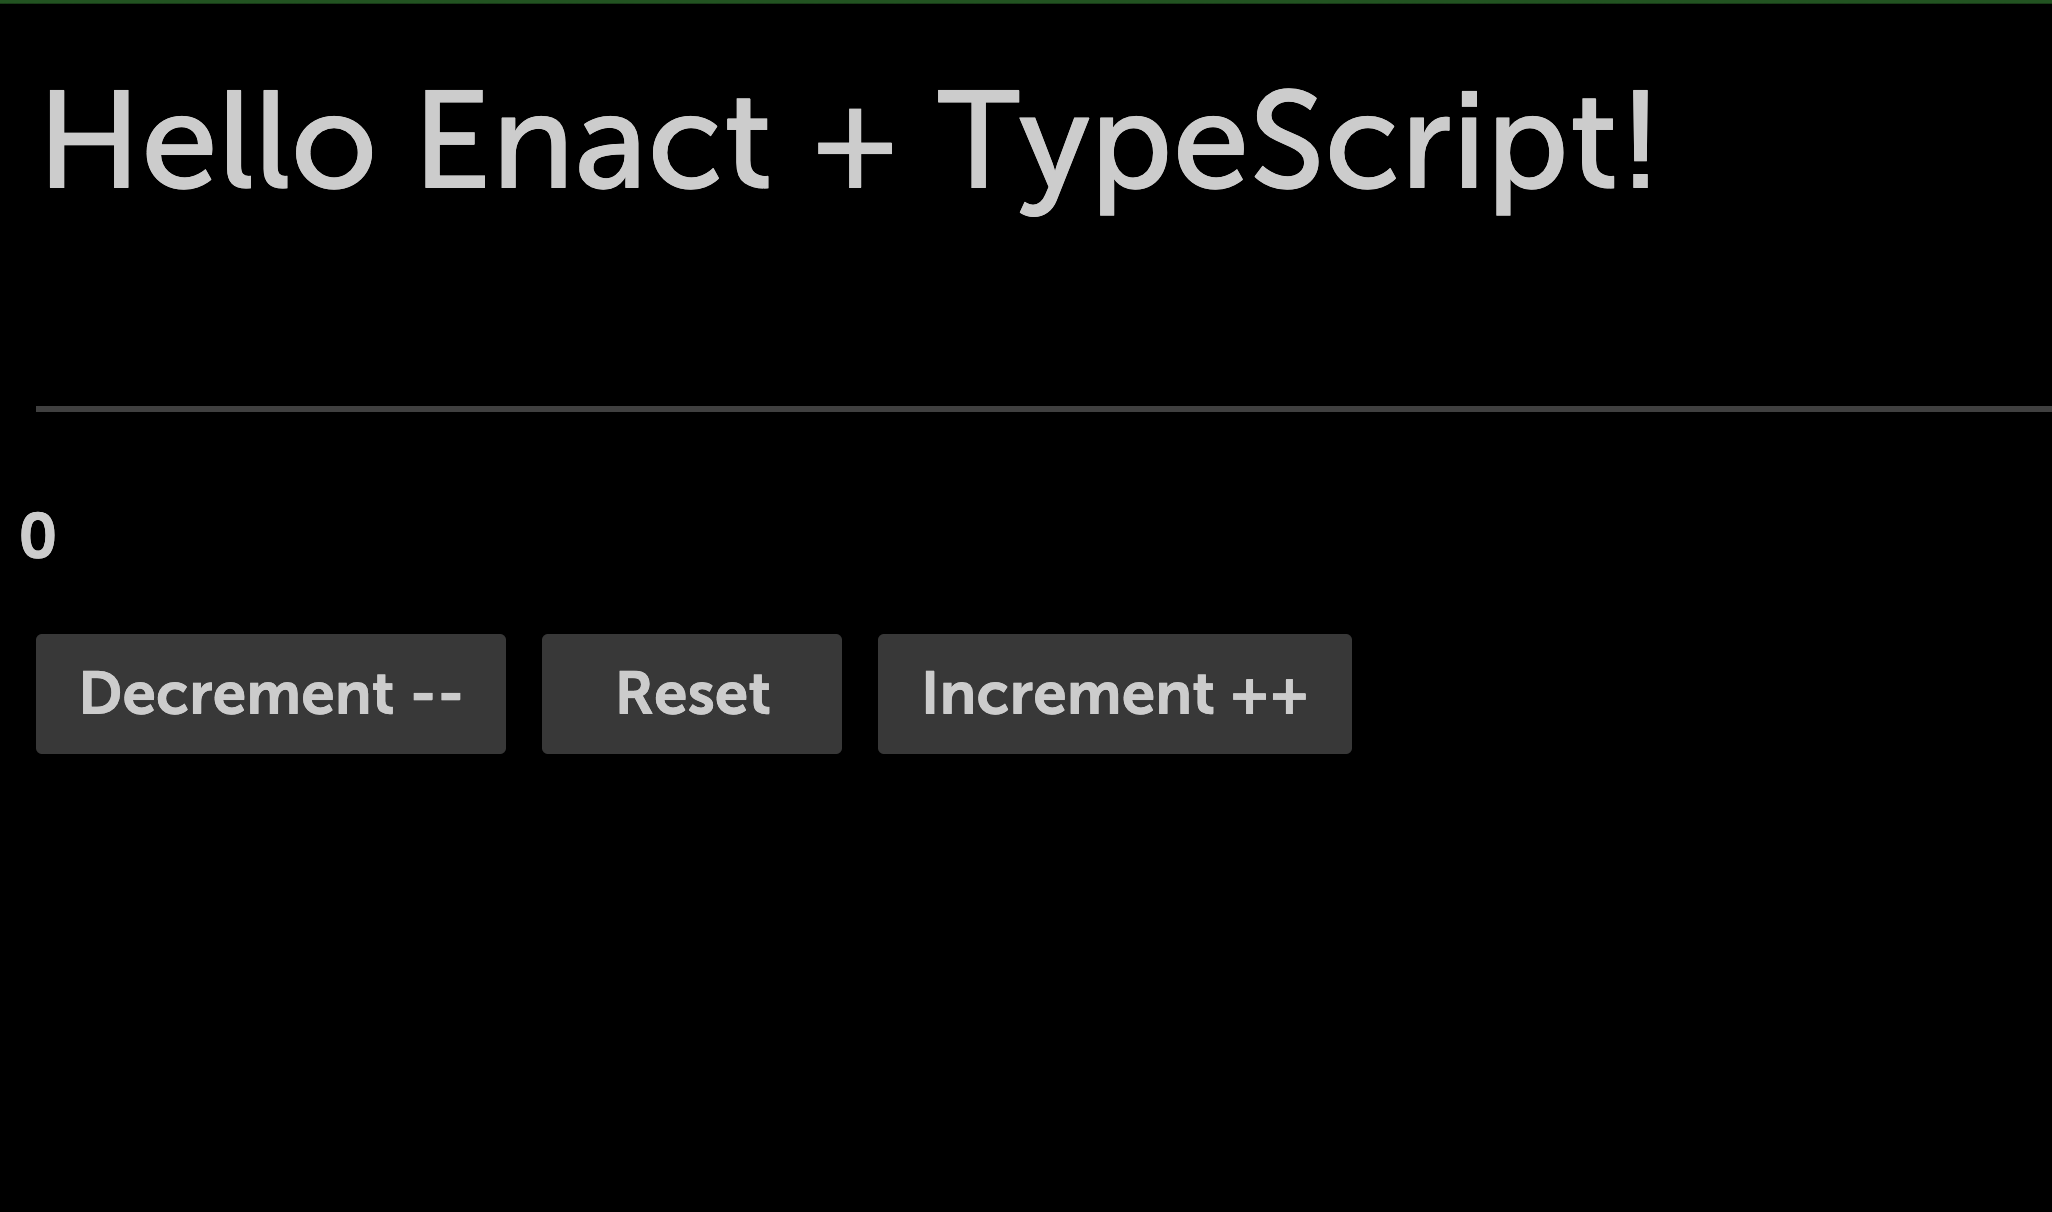
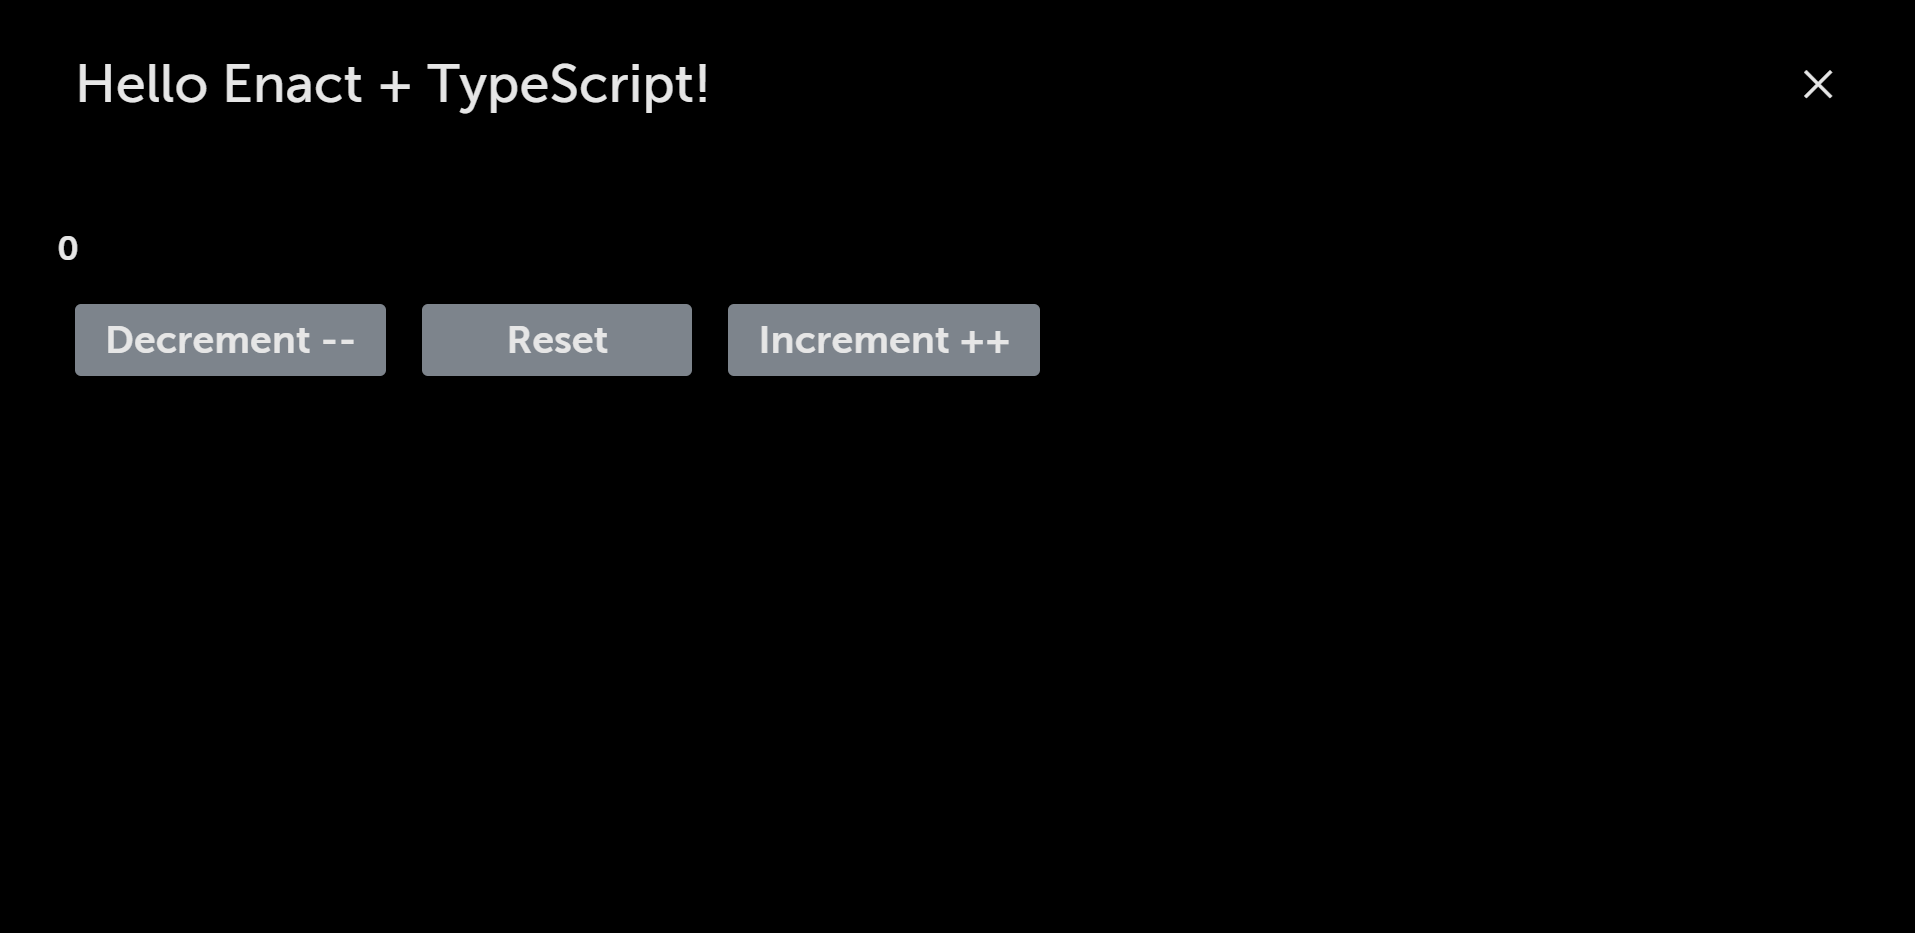
WRO-640: TypeScript: Update tutorial typescript docs (#179)
* Create update-copyright-years.yml

* Update update-copyright-years.yml

* Updated tutorial typescript docs to use sandstone

* Delete update-copyright-years.yml

* Updated images; small fix

* minor fix

* Review fixes

* Minor fix

diff --git a/src/pages/docs/tutorials/tutorial-typescript/adding-a-new-component/index.md b/src/pages/docs/tutorials/tutorial-typescript/adding-a-new-component/index.md
@@ -6,7 +6,7 @@ order: 3
 
 Enact has a number of ready-to-use components. Each component includes TypeScript typing, allowing them to be easily integrated into a project.
 
-Let's start by using components from the Moonstone theme in a stateful React component.
+Let's start by using components from the Sandstone theme in a stateful React component.
 
 ### Creating a Counter Component
 
@@ -21,48 +21,32 @@ Let's start by using components from the Moonstone theme in a stateful React com
 We can now populate the **Counter.tsx** file with a simple counter and add the following contents:
 
 ```ts
-import React from "react";
-import Button from "@enact/moonstone/Button";
+import {useState} from "react";
+import Button from "@enact/sandstone/Button";
 
-interface Props {}
+const Counter:React.FC = () => {
+	const [count, setCount] = useState<number>(0);
 
-interface State {
-  count: number;
-}
+	function increment() {
+		setCount(count + 1);
+	}
 
-class Counter extends React.Component<Props, State> {
-  state = {
-    count: 0
-  };
+	function decrement() {
+		setCount(count - 1);
+	}
 
-  increment = () => {
-    this.setState({
-      count: this.state.count + 1
-    });
-  };
+	function reset() {
+		setCount(0);
+	}
 
-  decrement = () => {
-    this.setState({
-      count: this.state.count - 1
-    });
-  };
-
-  reset = () => {
-    this.setState({
-      count: 0
-    });
-  };
-
-  render() {
-    return (
-      <div>
-        <h1>{this.state.count}</h1>
-        <Button onClick={this.decrement}>Decrement --</Button>
-        <Button onClick={this.reset}>Reset</Button>
-        <Button onClick={this.increment}>Increment ++</Button>
-      </div>
-    );
-  }
+	return (
+		<div>
+			<h1>{count}</h1>
+			<Button onClick={decrement}>Decrement --</Button>
+			<Button onClick={reset}>Reset</Button>
+			<Button onClick={increment}>Increment ++</Button>
+		</div>
+	);
 }
 
 export default Counter;

diff --git a/src/pages/docs/tutorials/tutorial-typescript/typescript-overview/index.md b/src/pages/docs/tutorials/tutorial-typescript/typescript-overview/index.md
@@ -14,15 +14,13 @@ This tutorial assumes you already know about TypeScript, its syntax, and its use
 
 Enact modules include TypeScript definition files, so there is no need to include third-party definition files.  The TypeScript template you installed in the first step of this tutorial configures your environment for building, linting and running TypeScript applications. Additionally, if you use an editor that supports TypeScript definitions, you should be able to see the types for Enact components and methods while writing your app.
 
-The Enact CLI supports TypeScript projects when it detects the presence of **tsconfig.json** and the **typescript** executable either locally or globally installed. The CLI builds using WebPack and linting is done by TSLint (if a **tsconfig.json** is detected).
+The Enact CLI supports TypeScript projects when it detects the presence of **tsconfig.json** and the **typescript** executable either locally or globally installed. The CLI builds using WebPack and linting is done by ESLint (if a **tsconfig.json** is detected).
 
 By default, the TypeScript template is set for strict TypeScript error checking. When migrating existing code, this can make the experience more difficult than it needs to be. It is possible to disable strict type checking (or, completely change the TypeScript compiler settings) by modifying the **tsconfig.json** file in the root of your project.
 
 ```json
     "strict": false,
 ```
-
-TSLint settings can be adjusted by editing the `tslint.json` file.
 
 If you need finer-grained control over your build or linting settings, you can 'eject' the application and modify the build settings directly (though you will lose some of the benefits of the Enact CLI). See [Ejecting Apps](/docs/developer-tools/cli/ejecting-apps/) for more information.
 

diff --git a/src/pages/docs/tutorials/tutorial-typescript/component-with-ts-enact/index.md b/src/pages/docs/tutorials/tutorial-typescript/component-with-ts-enact/index.md
@@ -13,9 +13,8 @@ We can use the same **Counter.tsx** file. Replace the previous contents with the
 ```ts
 // Counter.tsx
 
-import Button from '@enact/moonstone/Button';
 import kind from '@enact/core/kind';
-import React from 'react';
+import Button from '@enact/sandstone/Button';
 
 const CounterBase = kind({
     name: 'Counter',
@@ -56,9 +55,9 @@ This does work, mainly because we haven't modified the `MainView` component to p
 ```ts
 // Counter.tsx
 
-import Button from '@enact/moonstone/Button';
 import kind from '@enact/core/kind';
-import React, {MouseEvent} from 'react';
+import Button from '@enact/sandstone/Button';
+import {MouseEvent} from 'react';
 
 interface Props {
 	count? : number,
@@ -108,10 +107,9 @@ For state management on `count` prop will use `ui/Changeable`.
 // Counter.tsx
 
 import {adaptEvent, forward, handle} from '@enact/core/handle';
-import Changeable from '@enact/ui/Changeable';
-import Button from '@enact/moonstone/Button';
 import kind from '@enact/core/kind';
-import React from 'react';
+import Button from '@enact/sandstone/Button';
+import Changeable from '@enact/ui/Changeable';
 
 interface Props {
     count? : number,
@@ -192,3 +190,6 @@ let count : number = 0;
 ## Conclusion
 
 Using TypeScript with Enact we were able to create a reusable counter component. Integrating TypeScript with Enact helped us to extend our knowledge in using `kind()` and `handle()` in developing a reusable component.
+
+The code for this tutorial can be found here: https://github.com/enactjs/samples/tree/master/tutorial-typescript. 
+Happy coding!
